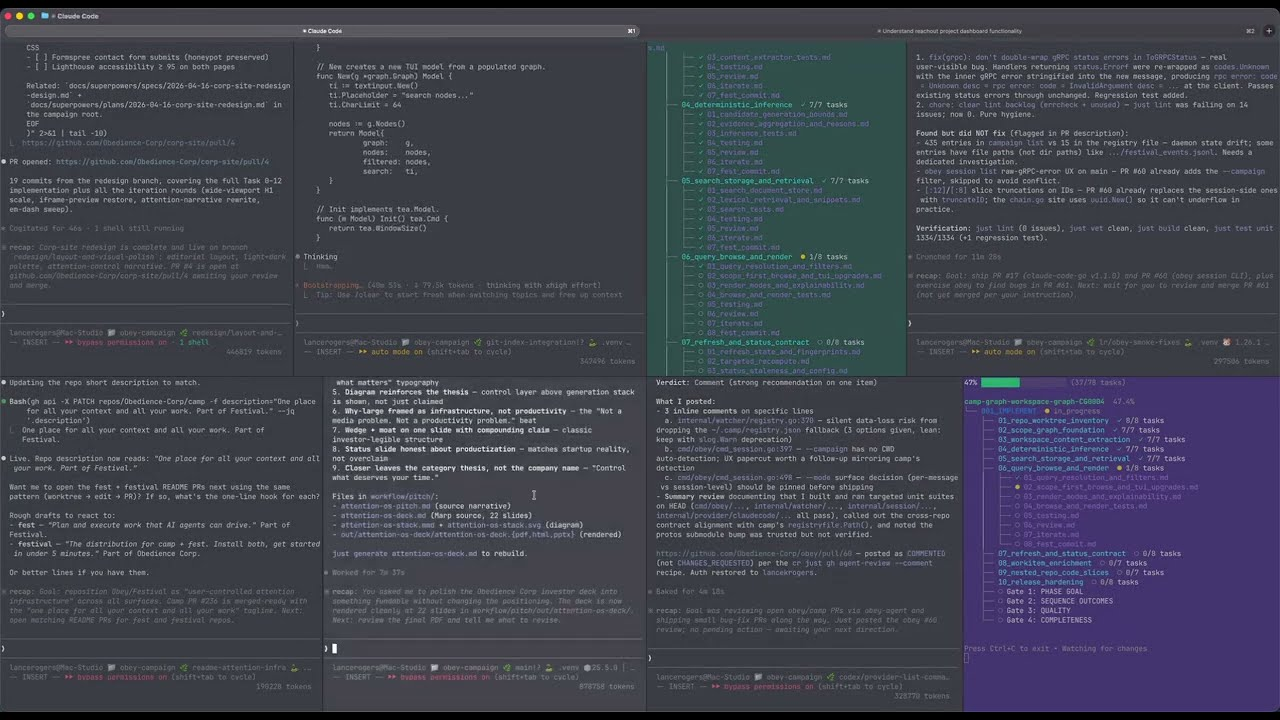
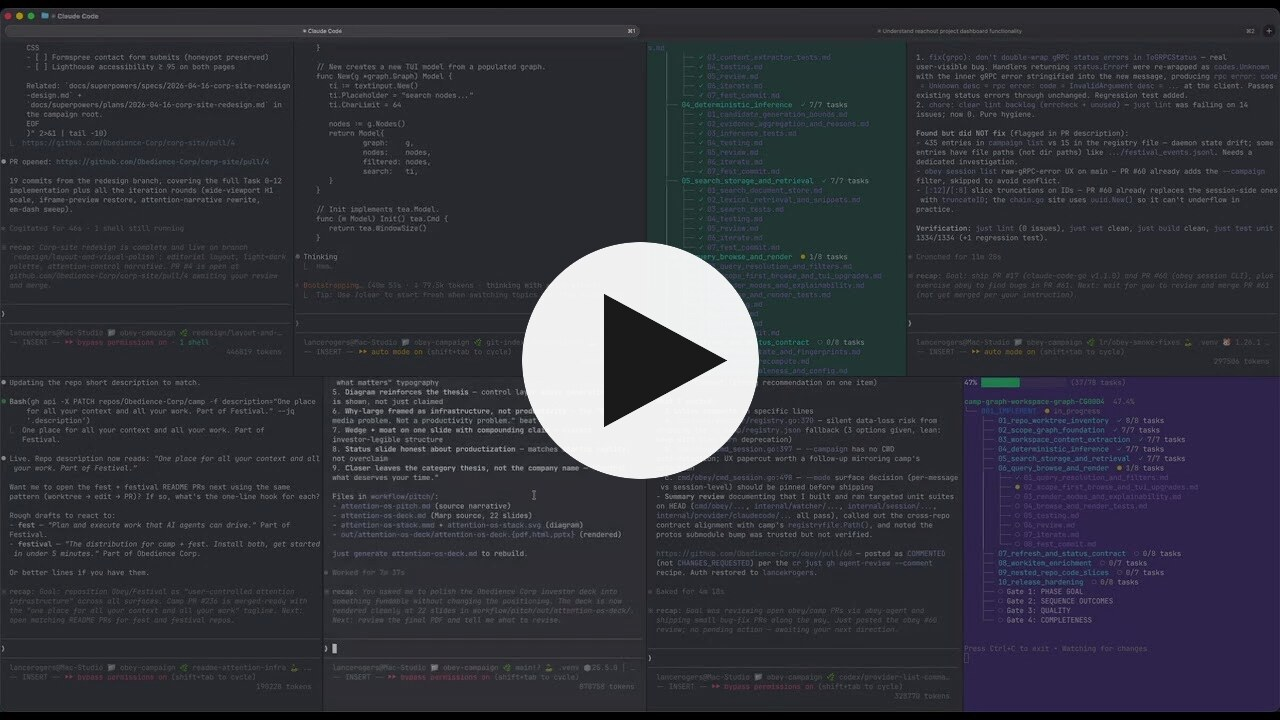
[OBEY-CAMPAIGN-8deed8b4] docs(readme): make demo thumbnail read as a video, center and cap width
Overlays a play button on demo_video_thumb.jpg and subtly darkens the
busy terminal frame so it reads as a clickable video rather than a
screenshot. Centers the thumbnail and caps it at 720px instead of
rendering full-bleed.

diff --git a/README.md b/README.md
@@ -82,9 +82,11 @@ fest next
 
 After installing, see the [quick start guide](https://docs.fest.build/getting-started/quickstart/) for shell setup and first steps.
 
-[![Watch the demo](docs/images/demo_video_thumb.jpg)](https://youtu.be/FY6vm74oa8o?si=ZFg87vA7u9G_79bX)
+<p align="center">
+  <a href="https://youtu.be/FY6vm74oa8o?si=ZFg87vA7u9G_79bX"><img src="docs/images/demo_video_thumb.jpg" alt="Watch the demo" width="720"></a>
+</p>
 
-_[More walkthroughs, demos, and speed runs &rarr;](https://docs.fest.build/videos/)_
+<p align="center"><em><a href="https://docs.fest.build/videos/">More walkthroughs, demos, and speed runs &rarr;</a></em></p>
 
 ## The Problem
 
